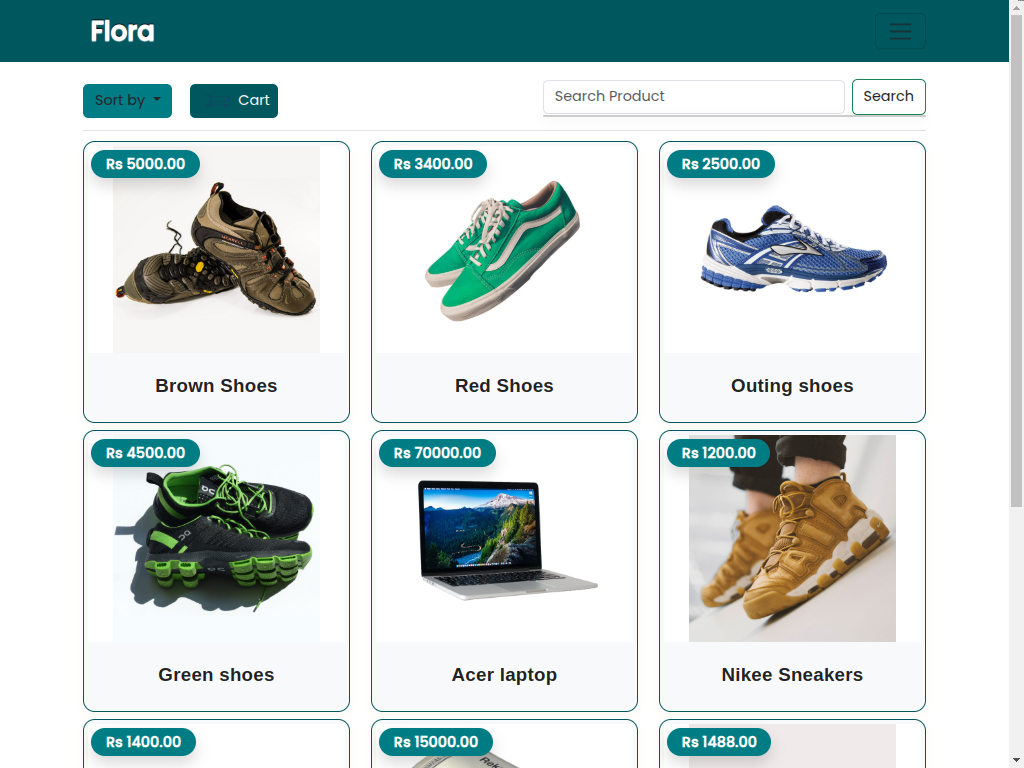
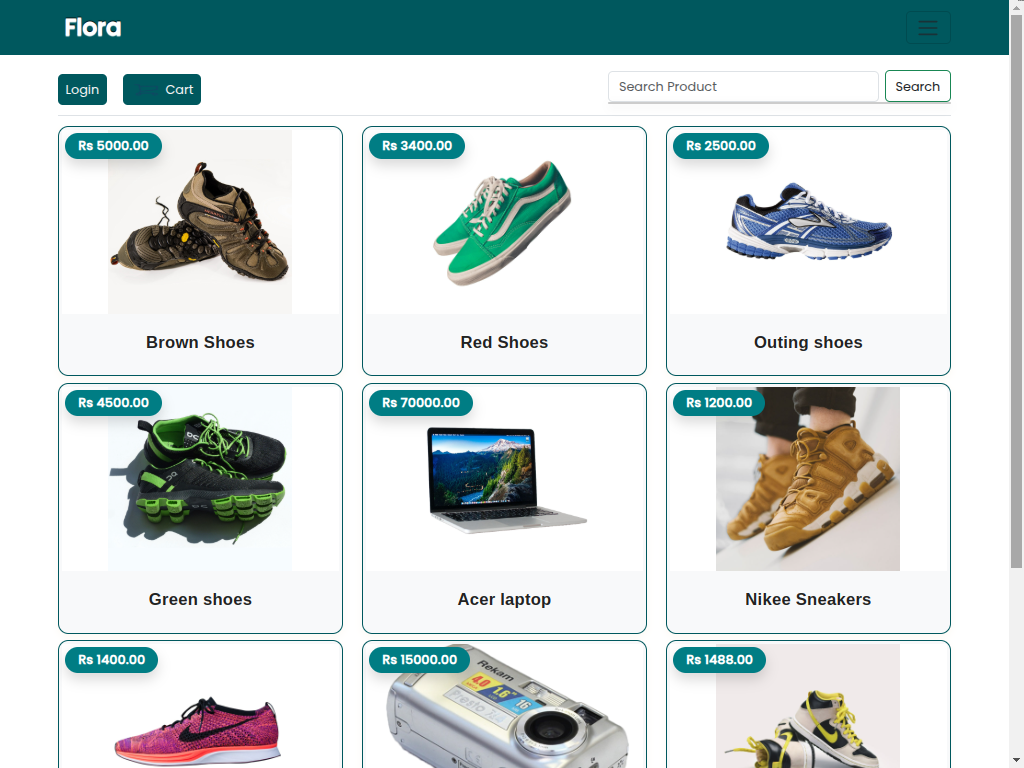
UI tweaks

diff --git a/flora/templates/base.html b/flora/templates/base.html
@@ -6,8 +6,8 @@
     <!-- Open Graph / Facebook -->
 <meta property="og:type" content="website">
 <meta property="og:url" content="https://shop-amber-nine-46.vercel.app">
-<meta property="og:title" content="Raveeha Revitalizing">
-<meta property="og:description" content="Raveeha beauty and health shop">
+<meta property="og:title" content="flora shop">
+<meta property="og:description" content="Flora beauty and health shop">
 <meta property="og:image" content="https://res.cloudinary.com/dftwpyllt/image/upload/v1752993632/Screenshot_from_2025-07-20_11-35-18_kxqlj3.png">
 
 <title> Flora  </title> 
@@ -449,21 +449,12 @@ footer {
            
                 
                 <!-- Sort Dropdown -->
-                <div class="btn-group dropdown-separator">
-                    <button type="button" class="btn  dropdown-toggle" data-bs-toggle="dropdown" aria-expanded="false" style="background: #007D84;">
-                        Sort by
-                    </button>
-                    <ul class="dropdown-menu">
-                        <form method="get" action="{% url 'home' %}">
-                            <button class="dropdown-item" type="submit" name="work" value="low">Price: Low to High</button>
-                        </form>
-                        <form method="get" action="{% url 'home' %}">
-                            <button class="dropdown-item" type="submit" name="work" value="high">Price: High to Low</button>
-                        </form>
-                        <form method="get" action="{% url 'home' %}">
-                            <button class="dropdown-item" type="submit" name="work" value="best">Best Selling</button>
-                        </form>
-                    </ul>
+                <div class="btn-group dropdown-separator"> <a class="btn  px-2 hoome" href=" {% url "login" %}">
+                   
+                       Login
+                    
+                </a>
+                   
                 </div>
 
                 <!-- Cart Button -->
@@ -613,3 +604,4 @@ footer {
     <script src="https://cdn.jsdelivr.net/npm/bootstrap@5.3.0/dist/js/bootstrap.bundle.min.js"></script>
 </body>
 </html>
+
